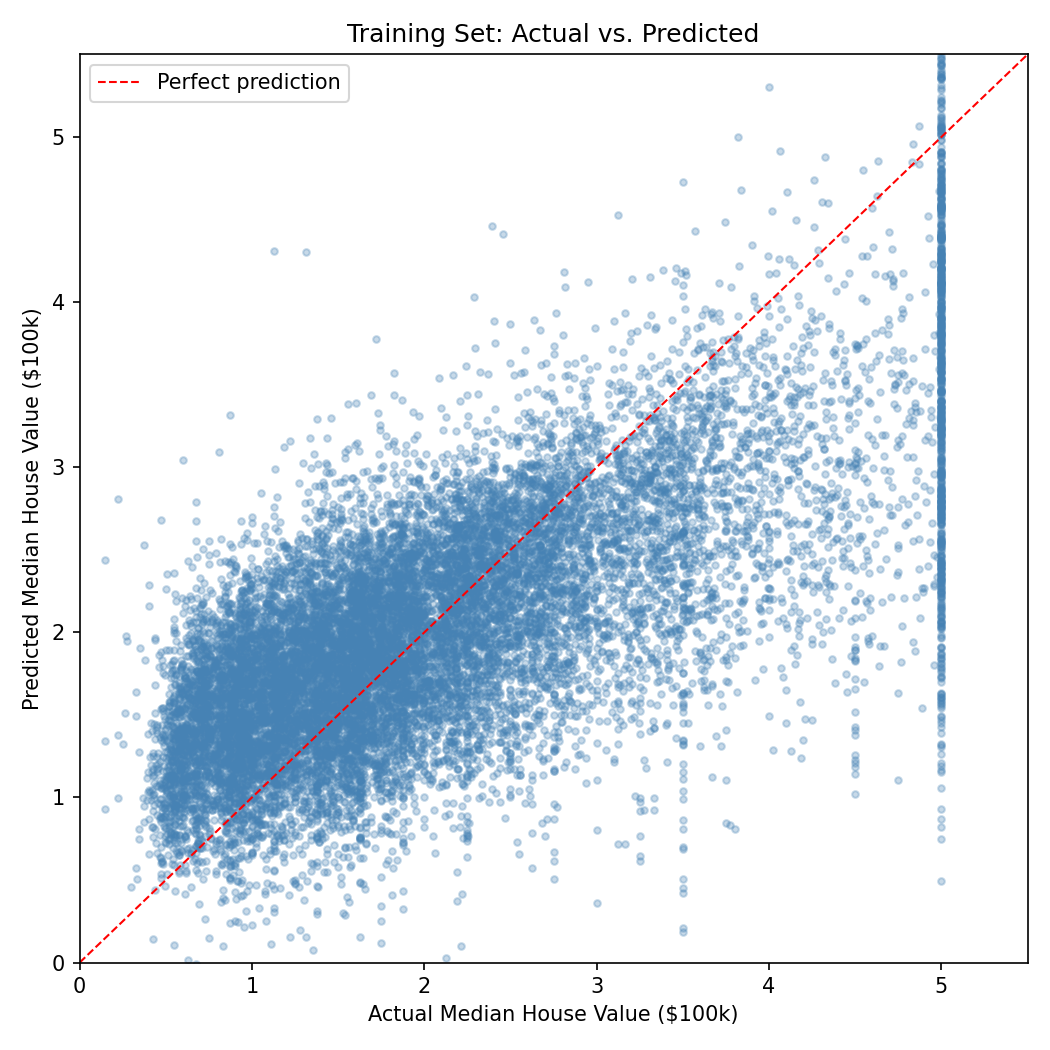
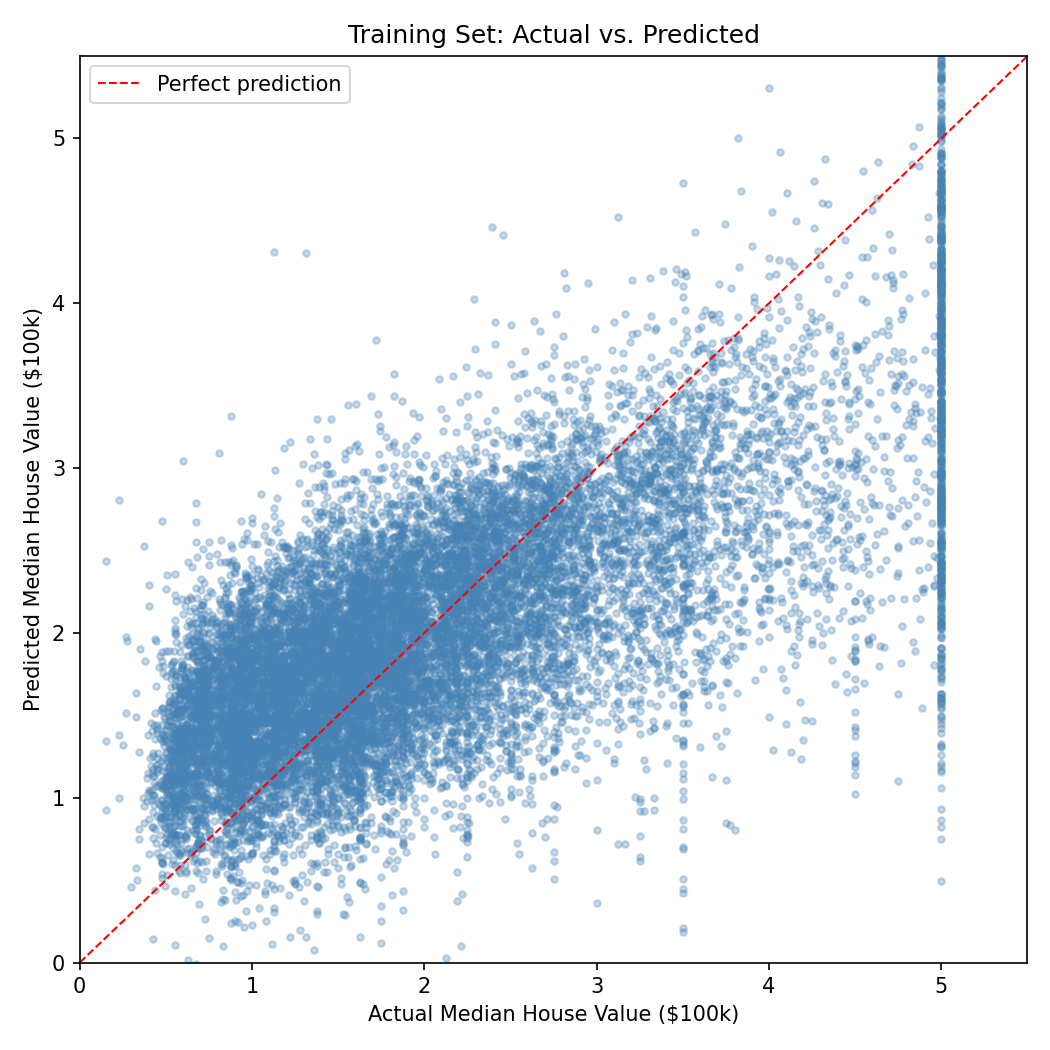
Test Predictors + Plot
Adding in the test predictors and adding in the plot to the figs folder

diff --git a/src/ds_pipeline.py b/src/ds_pipeline.py
@@ -51,3 +51,23 @@ fig.tight_layout()
 fig.savefig("figures/train_actual_vs_pred.png", dpi=150)
 plt.close(fig)
 print("Saved figures/train_actual_vs_pred.png")
+
+
+# Test predictions
+y_test_pred = mlp.predict(X_test)
+
+# Plot: actual vs. predicted on test set
+fig, ax = plt.subplots(figsize=(7, 7))
+ax.scatter(y_test, y_test_pred, alpha=0.3, s=10, color="darkorange")
+lims = [0, 5.5]
+ax.plot(lims, lims, "r--", linewidth=1, label="Perfect prediction")
+ax.set_xlim(lims)
+ax.set_ylim(lims)
+ax.set_xlabel("Actual Median House Value ($100k)")
+ax.set_ylabel("Predicted Median House Value ($100k)")
+ax.set_title("Test Set: Actual vs. Predicted")
+ax.legend()
+fig.tight_layout()
+fig.savefig("figures/test_actual_vs_pred.png", dpi=150)
+plt.close(fig)
+print("Saved figures/test_actual_vs_pred.png")
